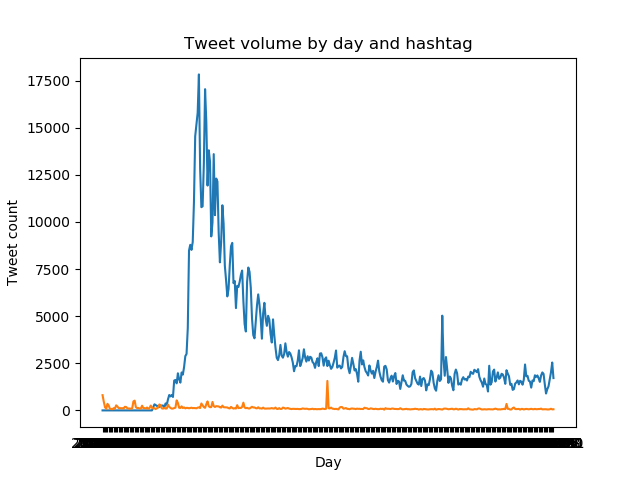
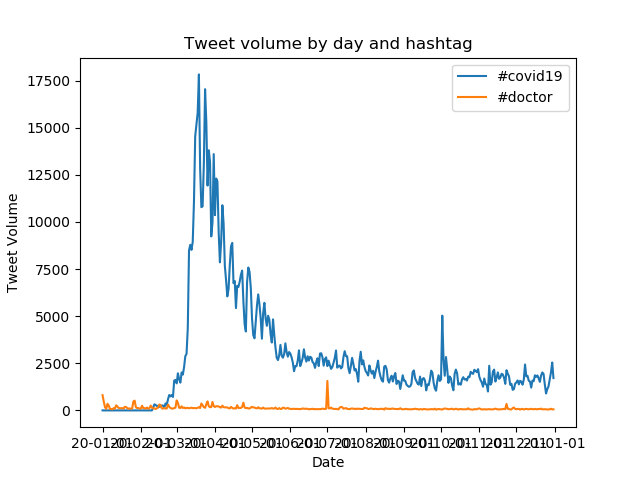
ar 2

diff --git a/src/alternate_reduce.py b/src/alternate_reduce.py
@@ -15,6 +15,8 @@ from collections import Counter,defaultdict
 import matplotlib
 matplotlib.use('Agg')
 import matplotlib.pyplot as plt
+import matplotlib.dates as mdates
+from datetime import datetime
 
 # load each of the input paths
 total = defaultdict(lambda: Counter())
@@ -39,14 +41,20 @@ for day in total.keys():
         except KeyError:
             pass
 
+fig, ax = plt.subplots()
 for key in new_dict:
-    days = sorted(new_dict[key].keys())
-    values = [new_dict[key][day] for day in days]
-    plt.plot(days, values, label=key)
+    dates = sorted(new_dict[key].keys())
+    values = [new_dict[key][date] for date in dates]
+    days = [datetime.strptime(date, '%y-%m-%d') for date in dates]
+    ax.plot(days, values, label=key)
+
+ax.xaxis.set_major_locator(mdates.MonthLocator())
+ax.xaxis.set_major_formatter(mdates.DateFormatter('%y-%m-%d'))
 
 # Add title and axis labels
-plt.title('Tweet volume by day and hashtag')
-plt.xlabel('Day')
-plt.ylabel('Tweet count')
+ax.set_title('Tweet volume by day and hashtag')
+ax.set_xlabel('Date')
+ax.set_ylabel('Tweet Volume')
+ax.legend()
 
 plt.savefig(args.output_path+'.png')
